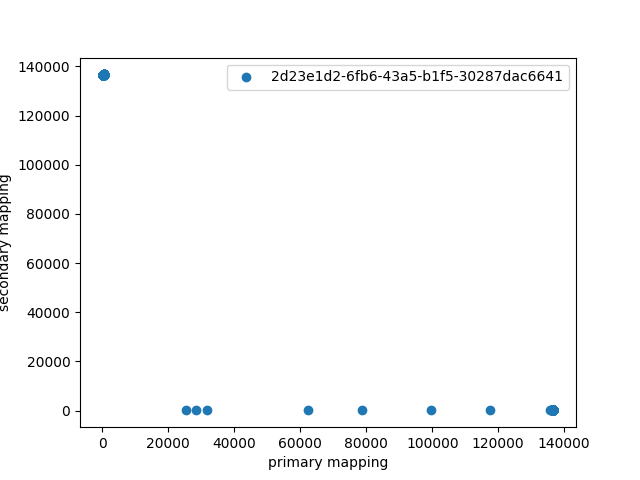
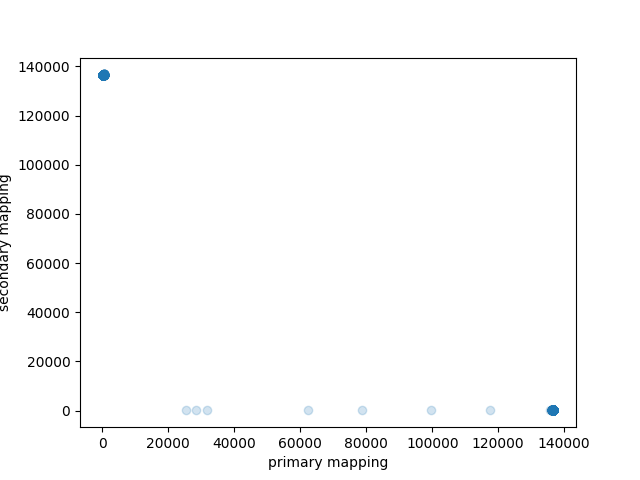
supplementary mapping

diff --git a/supplementary_mapping.py b/supplementary_mapping.py
@@ -8,7 +8,7 @@ def find_reads_with_secondary_mapping(bam_file):
     with pysam.AlignmentFile(bam_file, "rb") as bam:
         for read in bam.fetch():
             # Check if the read has a secondary alignment (i.e., supplementary alignment)
-            if read.is_secondary:
+            if read.is_supplementary:
                 secondary_positions[read.query_name].append(read.reference_start+((read.reference_end-read.reference_start)/2))
         for read in bam.fetch():
             if read.query_name in secondary_positions.keys():
@@ -43,8 +43,10 @@ if __name__ == "__main__":
                 x.append(p[0])
                 y.append(p[1])
 
-            plt.scatter(x,y,alpha=0.2)
+                plt.scatter(p[0],p[1],alpha=0.2)
+            #plt.scatter(x,y,alpha=0.2)
             plt.ylabel('secondary mapping')
             plt.xlabel('primary mapping')
-            figure.savefig(f'plots/secondary_mapping/{phage}/{time}.png')
+            #plt.legend(secondary_positions.keys(), bbox_to_anchor=(1, 1))
+            figure.savefig(f'plots/supplementary_mapping/{phage}/{time}.png')
             plt.close()

diff --git a/notes/note4.md b/notes/note4.md
@@ -25,13 +25,60 @@ These mutations affect genes involved in the lateral tail fiber protein.
 
 
 
+2. the site of EM60 that you found (36619) corresponds to 79121 in my assembly and i discarded it because the coverage was less than 50 and the difference between forward and reverse frequency is 0.33 at timepoint 1. I corrected the thresholds and now i have it in the plot.
+
+3. the sites with non consensus frequency of 0.4 that I found in EM60 map at 7695 and 7696 in the reference genome. they are part of the major capisd protein, they are the first two positions of the last codon of the gene.
+
+4. the sites with gap frequency at 0.3 that I found in EM60 map at 28977 and 44969 in the reference genome. they are part of lateral tail fiber proteins
+
+5. I tried to put a low threshold on the score of the first timepoint but nothing fancy happened
+
+6. I noticed that in the non consensus frequency graph of EM11 there is a site that follows a similar path as the two i found in EM60 (reaching .3 of non consensus frequency). it maps at 7328 on the reference, part of major capsid protein gene.
+
+## entropy
+
+score on the basis of an entropy, if there is less disorder we give more power to the observation
 
 
+## aminoacid mutaitons 
+look at aminoacid changes in all mutations 
+
+EM11 82280 aspartate(GAC) to glycine(GGC)
+
+## secondary mapping
+
+2bef93e1-3ad8-4eb7-b28d-5cba95221d27
+98222.5
+88534.0
+f4d3a673-f458-4f7e-bd43-d6c540bb10db
+98595.0
+88704.5
+9fcd9145-95f8-4fe7-ad1d-1a649bd62bc0
+98419.0
+88844.0
+2b770158-c5ea-4487-9bcf-dc63deed197b
+97651.0
+88861.5
+1ad37322-6291-4880-8a58-71bdf2fe3612
+97210.0
+89085.0
+7f5b8127-6bcf-4b33-8b78-28a1347ffb9f
+97763.0
+88929.5
+b1c60e02-5fd6-49ce-9d64-1a35d7116459
+96297.0
+89195.5
+
+![Alt text](image.png)
+
+## 3d structure
+
+mutated
+![Alt text](image-1.png)
 
 
-
-
-
+non mutated
+![Alt text](image-2.png)
 
 
 
@@ -46,66 +93,5 @@ red line in fastq quality
 
 are methylation sites increasing?
 
-! va bene la finestra dei pileup plots? 
-vanno bene le thresholds delle frequenze? no
-
-score on the basis of an entropy, if there is less disorder we give more power to the observation
-
-
 36619 reference site with high ncf, corresponds to 79121 in my assembly
 this ite has coverage <100 and divergence between forward and reverse at timepoint 1 is 0.33
-
-put the axis names in the time analysis
-
-hello, i have some updates regarding what we discussed yesterday:
-
-1. the analysis of the mutations on the same read was wrong, i was assuming to have reads without gaps. below there are the new results, i believe that they make more sense given the data of the time analysis graphs.
-    <pre>
-    phages=['EM11']
-    times=['3']
-    interesting_sites=[82280, 76089]
-    consensus_sites=['A','A']
-    genome_limits=[75000,83000]
-
-    number of reads that span the region with both mutations: 294
-    {'just_first': 10, 'just_second': 27, 'both': 145, 'both_consensus': 112}
-    {'just_first': 0.034013605442176874, 'just_second': 0.09183673469387756, 'both': 0.4931972789115646, 'both_consensus': 0.38095238095238093}
-    </pre>
-    <pre>
-    phages=['EM11']
-    times=['5']
-    interesting_sites=[82280, 76089]
-    consensus_sites=['A','A']
-    genome_limits=[75000,83000]
-
-    number of reads that span the region with both mutations: 196
-    {'just_first': 9, 'just_second': 15, 'both': 112, 'both_consensus': 60}
-    {'just_first': 0.04591836734693878, 'just_second': 0.07653061224489796, 'both': 0.5714285714285714, 'both_consensus': 0.30612244897959184}
-    </pre>
-    <pre>
-    phages=['EM11']
-    times=['1']
-    interesting_sites=[77655, 82934]
-    consensus_sites=['A','G']
-    genome_limits=[76000,83000]
-
-    number of reads that span the region with both mutations: 214
-    {'just_first': 8, 'just_second': 10, 'both': 75, 'both_consensus': 121}
-    {'just_first': 0.037383177570093455, 'just_second': 0.04672897196261682, 'both': 0.35046728971962615, 'both_consensus': 0.5654205607476636}
-    </pre>
-
-2. the site of EM60 that you found (36619) corresponds to 79121 in my assembly and i discarded it because the coverage was less than 50 and the difference between forward and reverse frequency is 0.33 at timepoint 1. I corrected the thresholds and now i have it in the plot.
-
-3. the sites with non consensus frequency of 0.4 that I found in EM60 map at 7695 and 7696 in the reference genome. they are part of the major capisd protein, they are the first two positions of the last codon of the gene.
-
-4. the sites with gap frequency at 0.3 that I found in EM60 map at 28977 and 44969 in the reference genome. they are part of lateral tail fiber proteins
-
-5. I tried to put a low threshold on the score of the first timepoint but nothing fancy happened
-
-6. I noticed that in the non consensus frequency graph of EM11 there is a site that follows a similar path as the two i found in EM60 (reaching .3 of non consensus frequency). it maps at 7328 on the reference, part of major capsid protein gene.
-
-
-
-look at aminoacid changes in all mutations 
-
-EM11 82280 aspartate to glycine
